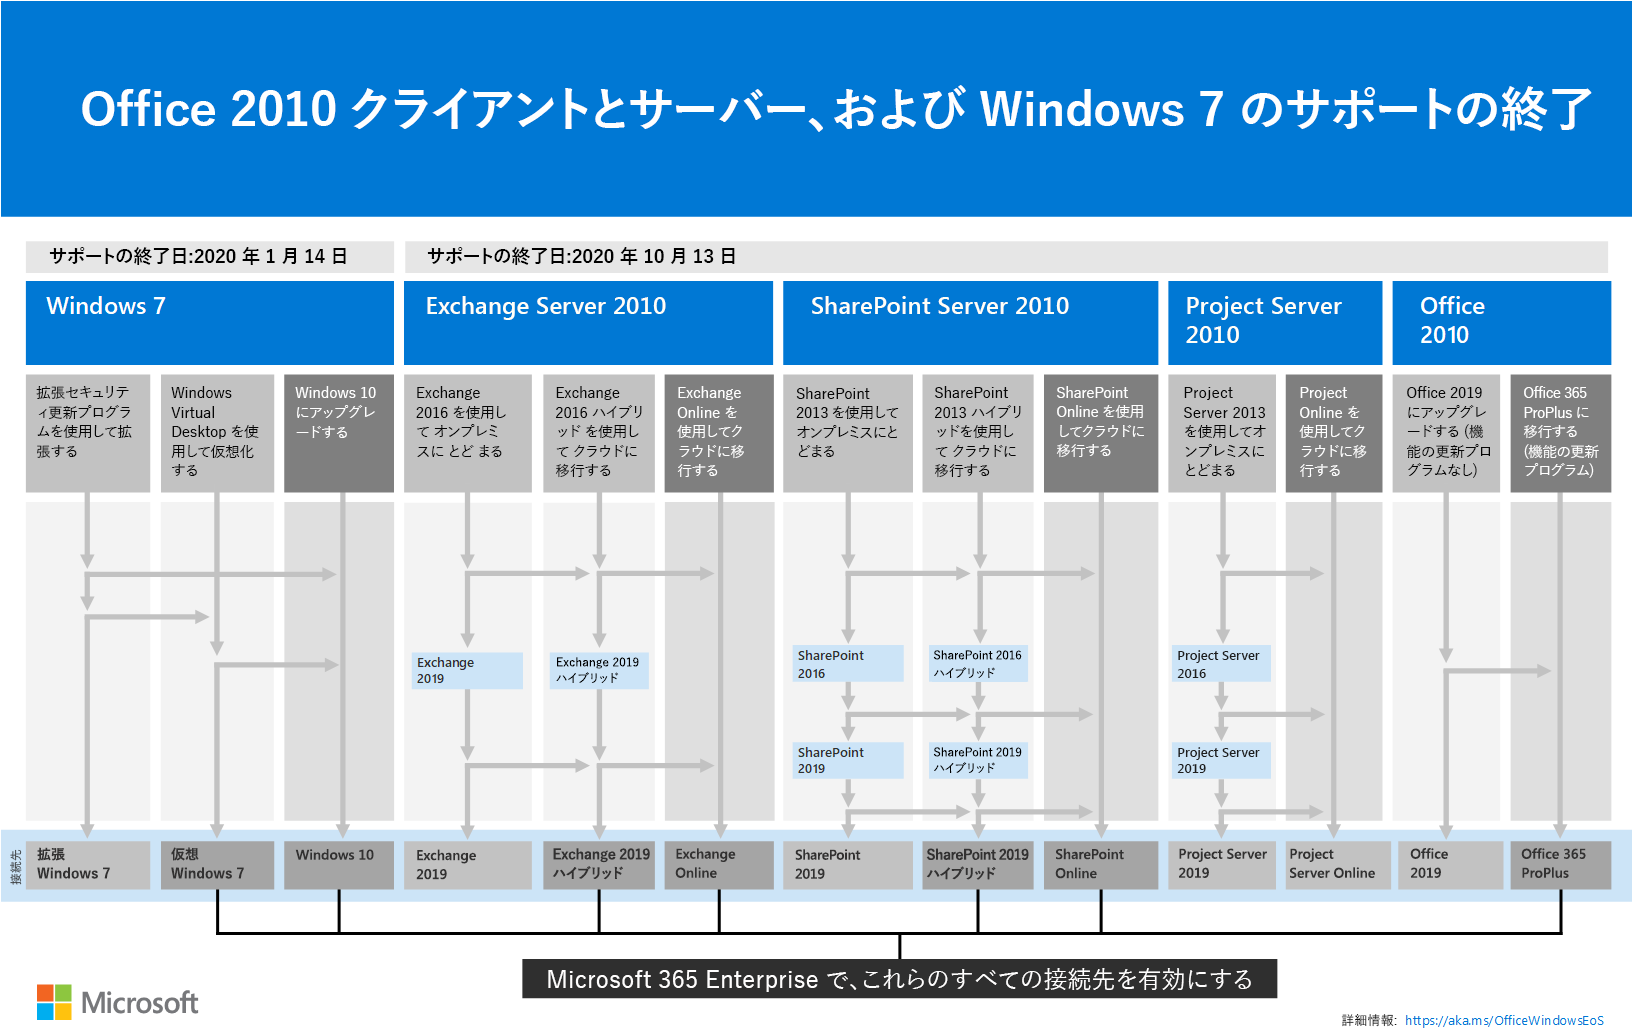
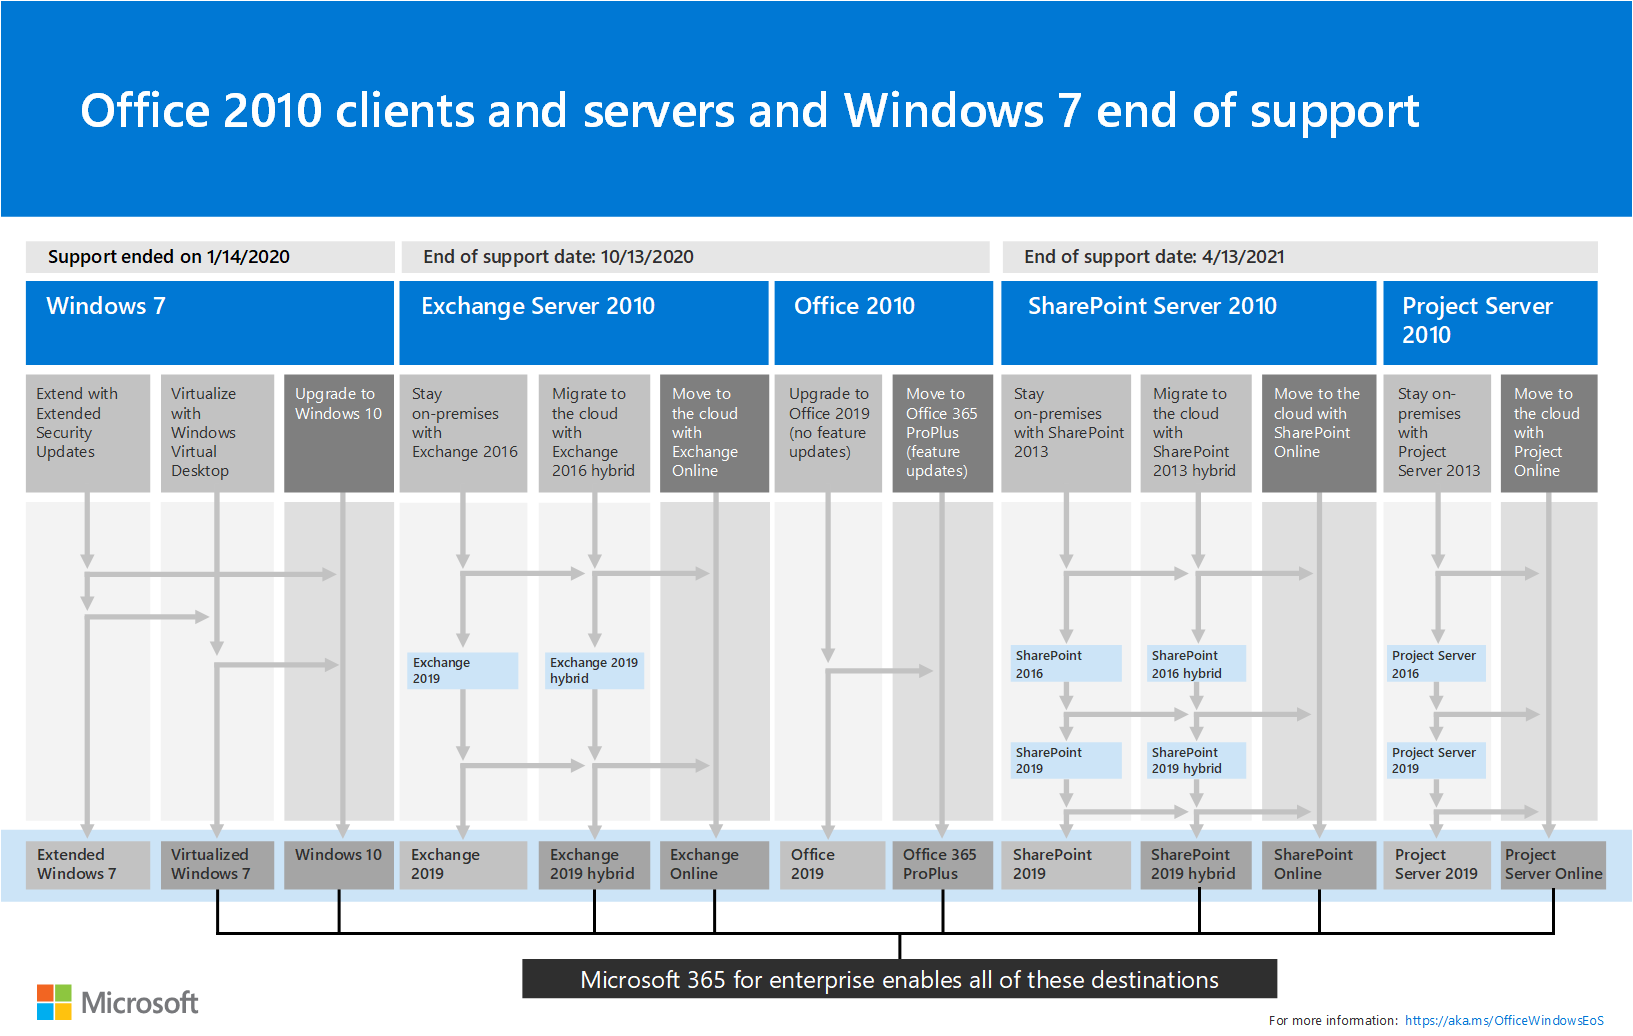
commit translated contents

diff --git a/microsoft-365/admin/security-and-compliance/set-up-multi-factor-authentication.md b/microsoft-365/admin/security-and-compliance/set-up-multi-factor-authentication.md
@@ -22,12 +22,12 @@ search.appverid:
 ms.assetid: 8f0454b2-f51a-4d9c-bcde-2c48e41621c6
 description: セキュリティの既定値を使用して Office 365 ユーザー用の多要素認証を設定する方法について説明します。
 monikerRange: o365-worldwide
-ms.openlocfilehash: 5f468f040ca88ab4ab2bc198d0d7550bf2e7f4af
-ms.sourcegitcommit: 8a88b7526e6a3a907f33a8567e0d25b74fe60d80
+ms.openlocfilehash: 7e48f72f2fd8cfc5042bd15f994cc98bfa5fca8c
+ms.sourcegitcommit: dbbdeca5a6cd048e1bde9e820a8b8a0d6022c7a2
 ms.translationtype: MT
 ms.contentlocale: ja-JP
-ms.lasthandoff: 04/09/2020
-ms.locfileid: "43204024"
+ms.lasthandoff: 04/14/2020
+ms.locfileid: "43503973"
 ---
 # <a name="set-up-multi-factor-authentication"></a>多要素認証をセットアップする
   
@@ -37,6 +37,7 @@ ms.locfileid: "43204024"
 新しい法人向け Office 365 または Microsoft 365 Business のすべてのサブスクリプションは、自動的にセキュリティの既定値が有効になっています。 これは、すべてのユーザーが MFA を設定し、モバイルデバイスに Microsoft Authenticator アプリをインストールする必要があることを意味します。 詳細については、「[Office 365 で 2 段階認証をセットアップする](https://support.office.com/article/ace1d096-61e5-449b-a875-58eb3d74de14)」を参照してください。  
 
 サインインするたびに追加の認証を実行するには、次にあげる 9 個の管理者ロールが必要になります。
+
 - グローバル管理者
 - SharePoint 管理者
 - Exchange 管理者
@@ -47,7 +48,7 @@ ms.locfileid: "43204024"
 - ユーザー管理者
 - 認証管理者
 
-他のすべてのユーザーは、必要に応じて追加認証を求められます。 詳細については、「[セキュリティの既定値とは](https://docs.microsoft.com/azure/active-directory/fundamentals/concept-fundamentals-security-defaults)」を参照してください。
+他のすべてのユーザーは、必要に応じて追加認証を求められます。 詳細については、「[セキュリティの既定とは](https://docs.microsoft.com/azure/active-directory/fundamentals/concept-fundamentals-security-defaults)」を参照してください。
 
 > [!NOTE]
 > MFA を設定または変更するには、Office 365 のグローバル管理者である必要があります。 <br><br>
@@ -62,7 +63,6 @@ ms.locfileid: "43204024"
 
 1. グローバル管理者の資格情報を使用して、[管理センター](https://go.microsoft.com/fwlink/p/?linkid=834822)にサインインします。
 2. [Azure Active Directory](https://portal.azure.com/#blade/Microsoft_AAD_IAM/ActiveDirectoryMenuBlade/Properties) にアクセスします。
-
 3. ページの下部で、[**セキュリティの既定値の管理**] を選択します。
 4. セキュリティの既定値を有効にする場合は [**はい]** 、セキュリティの既定値を無効にする場合は [**いいえ**] を選択し、[**保存**] を選択
 
@@ -74,9 +74,9 @@ ms.locfileid: "43204024"
 
 3. [**セキュリティ] |**[作業の開始] ページで、[**条件付きアクセス**] を選択します。 
 
-4. [**Azure portal 条件付きアクセス - ポリシー**] ページで、[**オン**]になっているベースライン ポリシーをそれぞれ選び、[**オフ**]に設定します。
+4. [**条件付きアクセスポリシー** ] ページで、にある各基準ポリシーを選択し、 **[****オフ**] に設定します。
 5. [[Azure Active Directory のプロパティ](https://portal.azure.com/#blade/Microsoft_AAD_IAM/ActiveDirectoryMenuBlade/Properties)] ページにアクセスします。
-6. ページの下部で、[**セキュリティの既定値の管理**]を選択し、[**セキュリティの既定値の有効化**] ウィンドウで、[**Enable Security defaults (セキュリティの規定値を有効にする)**] トグルを [**はい**] に設定します。 
+6. ページの下部にある [セキュリティの**既定の管理**] をクリックし、[**セキュリティ**の既定値を有効にする] ウィンドウで、[**セキュリティの既定値を有効**にする] を [**はい**] に設定して、[**保存**] を選択します。 
 
 ## <a name="enable-modern-authentication-for-your-organization"></a>組織の先進認証を有効にする
 
@@ -84,12 +84,13 @@ Office 2016 のクライアント アプリケーションはすべて、Active 
 
 1. 先進認証を有効にするには、[管理センター](https://go.microsoft.com/fwlink/p/?linkid=834822)で **[設定]** \> **[設定]** の順に選択し、次に **[サービス]** タブのリストから **[先進認証]** を選択します。
 
-2. [**先進認証**] パネルの [**先進認証を有効にする**] チェックボックスをオンにします。 
+2. **モダン認証**パネルの [**モダン認証を有効にする (推奨)** ] チェックボックスをオンにし、[**変更の保存**] を選択します。 
 
     ![チェックボックスをオンにした状態の [先進認証] パネル](../../media/enablemodernauth.png)
     
 > [!IMPORTANT]
 > 2017 年 8 月に、Skype for Business Online と Exchange Online を含むすべての新しい Office 365 テナントには、既定で先進認証が有効になっています。 Skype for Business Online の先進認証状態を確認するには、グローバル管理者の資格情報を使用して Skype for Business Online PowerShell を使用します。 Get-CsOAuthConfiguration を実行して、-ClientADALAuthOverride の出力を確認します。 -ClientADALAuthOverride が「許可」の場合は、先進認証が有効になります。
+
 Exchange Online の MA 状態を確認するには、「[Exchange Online で先進認証を有効にする](https://docs.microsoft.com/exchange/clients-and-mobile-in-exchange-online/enable-or-disable-modern-authentication-in-exchange-online)」を参照してください。
 
 ## <a name="related-articles"></a>関連記事

diff --git a/microsoft-365/enterprise/microsoft-365-overview.md b/microsoft-365/enterprise/microsoft-365-overview.md
@@ -13,12 +13,12 @@ localization_priority: Normal
 ms.collection: M365-subscription-management
 ms.custom: it-pro
 description: Microsoft 365 for enterprise のコンポーネント、計画、展開パスの概要について説明します。
-ms.openlocfilehash: 043953ddfd38a9ef5119546ec5672dd46e8acb53
-ms.sourcegitcommit: 053d42480d8aa3792ecb0027ddd53d383a029474
+ms.openlocfilehash: 6b8d2aa7fd8455acde1d49a6ed7f7c93c5235652
+ms.sourcegitcommit: dbbdeca5a6cd048e1bde9e820a8b8a0d6022c7a2
 ms.translationtype: MT
 ms.contentlocale: ja-JP
-ms.lasthandoff: 04/07/2020
-ms.locfileid: "43175192"
+ms.lasthandoff: 04/14/2020
+ms.locfileid: "43504093"
 ---
 # <a name="microsoft-365-for-enterprise-overview"></a>Microsoft 365 for enterprise の概要
 
@@ -84,15 +84,14 @@ Microsoft 365 E3 がある場合は、次の[オファーリング](https://www.
 
 ## <a name="avoid-end-of-support-for-windows-7-and-office-2010-clients-and-servers"></a>Windows 7 および Office 2010 のクライアントとサーバーのサポート終了を回避する
 
-次の製品は、 **2020 年1月14日**のサポート終了に到達しました。
-
-- [Windows 7](https://aka.ms/win7upgrade)
+[Windows 7](https://aka.ms/win7upgrade) **は、2020年1月14日**にサポート終了になりました。
 
 次の製品は、 **2020 年10月 13**日のサポート終了までになります。
 
 - [Office 2010](https://docs.microsoft.com/DeployOffice/office-2010-end-support-roadmap)
 - [Exchange Server 2010](https://docs.microsoft.com/office365/enterprise/exchange-2010-end-of-support)
-- [SharePoint Server 2010](https://docs.microsoft.com/office365/enterprise/upgrade-from-sharepoint-2010)
+
+[SharePoint Server 2010](https://docs.microsoft.com/office365/enterprise/upgrade-from-sharepoint-2010)は **、2021年4月 13**日のサポート終了に到達します。
 
 これらの製品のアップグレード、移行、およびクラウドへの移行オプションを視覚的にまとめたものとしては、[サポート終了ポスター](../media/migration-microsoft-365-enterprise-workload/Office2010Windows7EndOfSupport.pdf)をご覧ください。
 

diff --git a/microsoft-365/business/support/transition-csp-subscription.md b/microsoft-365/business/support/transition-csp-subscription.md
@@ -1,5 +1,5 @@
 ---
-title: Microsoft 365 Business CSP サブスクリプションの移行 
+title: Microsoft 365 Business CSP サブスクリプションの移行
 description: Microsoft 365 Business CSP サブスクリプションをプレビューから一般提供 (GA) に移行する方法について説明します。
 author: jasongroce
 f1.keywords:
@@ -13,12 +13,12 @@ localization_priority: Normal
 audience: microsoft-business 
 keywords: Microsoft 365 Business, Microsoft 365, SMB, CSP サブスクリプションの移行
 ms.date: 11/01/2017
-ms.openlocfilehash: 77b7b474a5ad17db58e283ea61b074c959905d1b
-ms.sourcegitcommit: 217de0fc54cbeaea32d253f175eaf338cd85f5af
+ms.openlocfilehash: 0a30d80ad5217868fec81866ab1dc41013917e99
+ms.sourcegitcommit: dbbdeca5a6cd048e1bde9e820a8b8a0d6022c7a2
 ms.translationtype: MT
 ms.contentlocale: ja-JP
-ms.lasthandoff: 03/07/2020
-ms.locfileid: "42560782"
+ms.lasthandoff: 04/14/2020
+ms.locfileid: "43504109"
 ---
 # <a name="transition-a-microsoft-365-business-csp-subscription"></a>Microsoft 365 Business CSP サブスクリプションの移行
 
